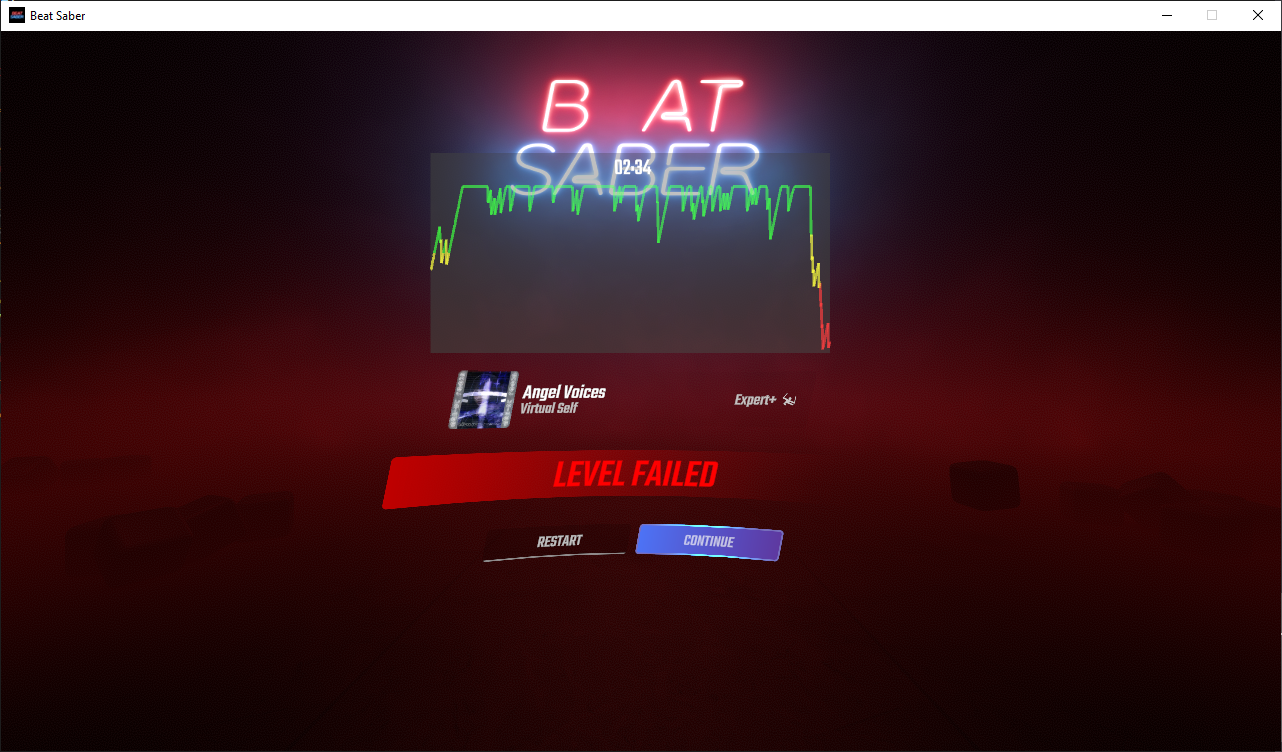
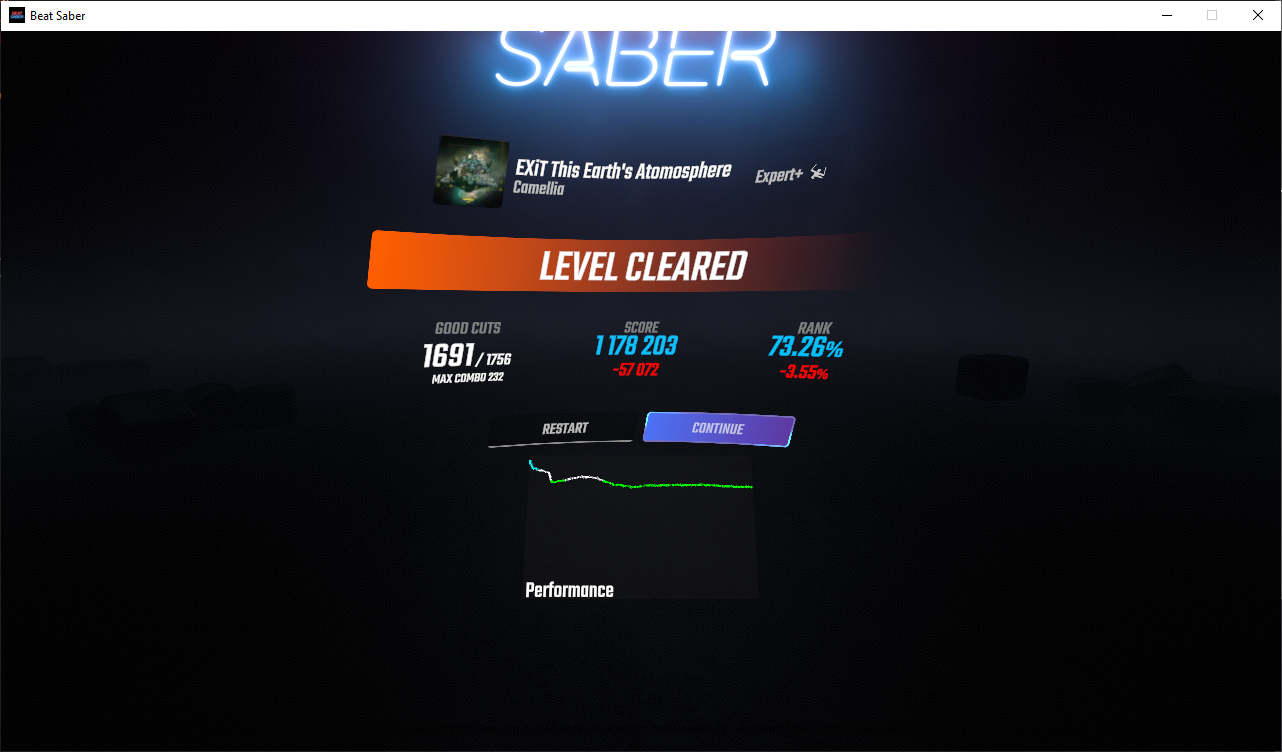
Added configuration, graph label; tweaks; readme

diff --git a/PerformanceMeterController.cs b/PerformanceMeterController.cs
@@ -8,16 +8,12 @@
  * Copyright (c) 2021 JackMacWindows.
  */
 
-using System;
 using System.Collections;
 using System.Collections.Generic;
 using System.Linq;
-using System.Reflection;
-using System.Text;
-using System.Threading.Tasks;
 using UnityEngine;
 using UnityEngine.UI;
-using BS_Utils.Utilities;
+using TMPro;
 
 namespace PerformanceMeter
 {
@@ -41,27 +37,48 @@ namespace PerformanceMeter
             if (!levelOk) return;
             levelOk = false;
             Logger.log.Debug("Found " + energyList.Count() + " notes");
+
             panel = new GameObject("PerformanceMeter");
+            panel.transform.Rotate(22.5f, 0, 0, Space.World);
             Canvas canvas = panel.AddComponent<Canvas>();
             canvas.renderMode = RenderMode.WorldSpace;
-            canvas.GetComponent<RectTransform>().localPosition = new Vector3(0.0f, 2.25f, 2.0f);
-            canvas.GetComponent<RectTransform>().sizeDelta = new Vector2(1.5f, 0.75f);
-            canvas.GetComponent<RectTransform>().rotation = Quaternion.AngleAxis(30, Vector3.left);
-            GameObject imageObj = new GameObject();
-            imageObj.transform.parent = canvas.transform;
-            imageObj.name = "Background";
+            canvas.scaleFactor = 0.01f;
+            canvas.GetComponent<RectTransform>().localPosition = new Vector3(0.0f, 0.4f, 2.25f);
+            canvas.GetComponent<RectTransform>().sizeDelta = new Vector2(1.0f, 0.5f);
+            canvas.transform.Rotate(22.5f, 0, 0, Space.World);
+            panel.AddComponent<CanvasRenderer>();
+            panel.AddComponent<HMUI.CurvedCanvasSettings>();
+
+            GameObject imageObj = new GameObject("Background");
+            imageObj.transform.SetParent(canvas.transform);
+            imageObj.transform.Rotate(22.5f, 0, 0, Space.World);
             Image img = imageObj.AddComponent<Image>();
-            img.color = new Color(0.25f, 0.25f, 0.25f, 0.5f);
+            img.color = new Color(0.1f, 0.1f, 0.1f, 0.25f);
             img.GetComponent<RectTransform>().localPosition = new Vector3(0.0f, 0.0f, 0.0f);
-            img.GetComponent<RectTransform>().sizeDelta = new Vector2(1.5f, 0.75f);
+            img.GetComponent<RectTransform>().sizeDelta = new Vector2(1.0f, 0.6f);
+
+            GameObject textObj = new GameObject("Label");
+            textObj.transform.SetParent(canvas.transform);
+            textObj.transform.Rotate(22.5f, 0, 0, Space.World);
+            HMUI.CurvedTextMeshPro text = textObj.AddComponent<HMUI.CurvedTextMeshPro>();
+            text.font = Instantiate(Resources.FindObjectsOfTypeAll<TMP_FontAsset>().First(t => t.name == "Teko-Medium SDF No Glow"));
+            text.fontSize = 9.0f;
+            text.alignment = TextAlignmentOptions.Right;
+            text.text = "Performance";
+            text.enableAutoSizing = true;
+            text.transform.localScale = new Vector3(0.005f, 0.005f, 0.005f);
+            text.GetComponent<RectTransform>().localPosition = new Vector3(-0.3f, -0.25f, 0.1f);
+            text.GetComponent<RectTransform>().sizeDelta = new Vector2(75.0f, 25.0f);
+
             GameObject graphObj = new GameObject("GraphContainer");
-            graphObj.AddComponent<RectTransform>().localPosition = new Vector3(0.0f, 2.25f, 2.0f);
-            graphObj.GetComponent<RectTransform>().sizeDelta = new Vector2(1.5f, 0.75f);
+            graphObj.AddComponent<RectTransform>().localPosition = new Vector3(0.0f, 0.45f, 2.275f);
+            graphObj.GetComponent<RectTransform>().sizeDelta = new Vector2(1.0f, 0.45f);
+            graphObj.transform.Rotate(22.5f, 0, 0, Space.World);
             graphObj.transform.SetParent(panel.transform);
-            graphObj.name = "GraphContainer";
             graphObj.transform.name = "GraphContainer";
             WindowGraph graph = panel.AddComponent<WindowGraph>();
             graph.ShowGraph(energyList, false, true, true);
+
             StartCoroutine(WaitForMenu());
         }
 
@@ -81,15 +98,14 @@ namespace PerformanceMeter
         }
 
         IEnumerator PauseAndRecord() {
-            yield return new WaitForSeconds(0.01f);
+            yield return new WaitForSeconds(0.001f); // Wait a tiny bit of time because the note cut event is sent just before the energy/percentage update
             float newEnergy = 0f;
             switch (PluginConfig.Instance.GetMode()) {
                 case PluginConfig.MeasurementMode.Energy: newEnergy = energyCounter.energy; break;
                 case PluginConfig.MeasurementMode.PercentModified: newEnergy = (float)scoreController.prevFrameModifiedScore / (float)scoreController.immediateMaxPossibleRawScore; break;
                 case PluginConfig.MeasurementMode.PercentRaw: newEnergy = rankCounter.relativeScore; break;
-                default: Logger.log.Error("An invalid mode was specified! PerformanceMeter will not record a score."); break;
+                default: Logger.log.Error("An invalid mode was specified! PerformanceMeter will not record scores, resulting in a blank graph. Check the readme for the valid modes."); yield break;
             }
-            Logger.log.Debug(newEnergy.ToString());
             energyList.Add(newEnergy);
         }
 
@@ -98,6 +114,10 @@ namespace PerformanceMeter
                 Destroy(panel);
                 panel = null;
                 resultsController = null;
+                scoreController = null;
+                energyCounter = null;
+                rankCounter = null;
+                endActions = null;
             }
         }
 
@@ -106,12 +126,20 @@ namespace PerformanceMeter
             energyCounter = Resources.FindObjectsOfTypeAll<GameEnergyCounter>().FirstOrDefault();
             rankCounter = Resources.FindObjectsOfTypeAll<RelativeScoreAndImmediateRankCounter>().FirstOrDefault();
             endActions = Resources.FindObjectsOfTypeAll<StandardLevelGameplayManager>().FirstOrDefault();
-            if (scoreController != null && energyCounter != null && endActions != null) {
+            if (endActions == null) endActions = Resources.FindObjectsOfTypeAll<MissionLevelGameplayManager>().FirstOrDefault();
+
+            if (scoreController != null && energyCounter != null && rankCounter != null && endActions != null) {
                 scoreController.noteWasCutEvent += NoteHit;
                 scoreController.noteWasMissedEvent += NoteMiss;
                 endActions.levelFinishedEvent += LevelFinished;
                 endActions.levelFailedEvent += LevelFinished;
                 Logger.log.Debug("PerformanceMeter reloaded successfully");
+            } else {
+                Logger.log.Error("Could not reload PerformanceMeter");
+                scoreController = null;
+                energyCounter = null;
+                rankCounter = null;
+                endActions = null;
             }
         }
 
@@ -124,7 +152,7 @@ namespace PerformanceMeter
         }
 
         private void LevelFinished() {
-            levelOk = true;
+            if (scoreController != null && energyCounter != null && rankCounter != null && endActions != null) levelOk = true;
         }
 
         /// <summary>
@@ -137,54 +165,14 @@ namespace PerformanceMeter
             if (instance != null)
             {
                 Logger.log?.Warn($"Instance of {this.GetType().Name} already exists, destroying.");
-                GameObject.DestroyImmediate(this);
+                DestroyImmediate(this);
                 return;
             }
-            GameObject.DontDestroyOnLoad(this); // Don't destroy this object on scene changes
+            DontDestroyOnLoad(this); // Don't destroy this object on scene changes
             instance = this;
             Logger.log?.Debug($"{name}: Awake()");
-            //StartCoroutine(WaitForLoad());
         }
-        /// <summary>
-        /// Only ever called once on the first frame the script is Enabled. Start is called after any other script's Awake() and before Update().
-        /// </summary>
-        private void Start()
-        {
-
-        }
-
-        /// <summary>
-        /// Called every frame if the script is enabled.
-        /// </summary>
-        private void Update()
-        {
-
-        }
-
-        /// <summary>
-        /// Called every frame after every other enabled script's Update().
-        /// </summary>
-        private void LateUpdate()
-        {
-
-        }
-
-        /// <summary>
-        /// Called when the script becomes enabled and active
-        /// </summary>
-        private void OnEnable()
-        {
-
-        }
-
-        /// <summary>
-        /// Called when the script becomes disabled or when it is being destroyed.
-        /// </summary>
-        private void OnDisable()
-        {
-
-        }
-
+      
         /// <summary>
         /// Called when the script is being destroyed.
         /// </summary>
@@ -192,7 +180,6 @@ namespace PerformanceMeter
         {
             Logger.log?.Debug($"{name}: OnDestroy()");
             instance = null; // This MonoBehaviour is being destroyed, so set the static instance property to null.
-
         }
         #endregion
     }

diff --git a/Plugin.cs b/Plugin.cs
@@ -8,12 +8,7 @@
  * Copyright (c) 2021 JackMacWindows.
  */
 
-using System;
-using System.Collections;
-using System.Collections.Generic;
-using System.Linq;
 using IPA;
-using IPA.Config;
 using IPA.Config.Stores;
 using UnityEngine.SceneManagement;
 using UnityEngine;
@@ -42,53 +37,34 @@ namespace PerformanceMeter
             Logger.log.Debug("Logger initialized.");
         }
 
-        #region BSIPA Config
-        //Uncomment to use BSIPA's config
-        /*
-        [Init]
-        public void InitWithConfig(Config conf)
-        {
-            Configuration.PluginConfig.Instance = conf.Generated<Configuration.PluginConfig>();
-            Logger.log.Debug("Config loaded");
-        }
-        */
-        #endregion
-
         [OnStart]
         public void OnApplicationStart() {
             Logger.log.Debug("OnApplicationStart");
-            if (PluginConfig.Instance.Enabled) {
-                new GameObject("PerformanceMeterController").AddComponent<PerformanceMeterController>();
-                BSEvents.gameSceneActive += GameSceneActive;
-                BSEvents.menuSceneActive += MenuSceneActive;
-                BSEvents.levelCleared += BSEvents_levelCleared;
-                BSEvents.levelFailed += BSEvents_levelCleared;
-                SceneManager.activeSceneChanged += ActiveSceneChanged;
-            }
-        }
-
-        private void BSEvents_levelCleared(StandardLevelScenesTransitionSetupDataSO arg1, LevelCompletionResults arg2) {
-            //PerformanceMeterController.instance.ShowResults();
+            new GameObject("PerformanceMeterController").AddComponent<PerformanceMeterController>();
+            BSEvents.gameSceneActive += GameSceneActive;
+            SceneManager.activeSceneChanged += ActiveSceneChanged;
         }
 
         [OnExit]
         public void OnApplicationQuit() {
             Logger.log.Debug("OnApplicationQuit");
-
         }
 
         void GameSceneActive() {
-            PerformanceMeterController.instance.energyList.Clear();
-            if (PluginConfig.Instance.GetMode() == PluginConfig.MeasurementMode.Energy) PerformanceMeterController.instance.energyList.Add(0.5f);
-            PerformanceMeterController.instance.GetControllers();
-        }
-
-        void MenuSceneActive() {
-            //PerformanceMeterController.instance.ShowResults();
+            if (PluginConfig.Instance.enabled) {
+                PerformanceMeterController.instance.energyList.Clear();
+                if (PluginConfig.Instance.GetMode() == PluginConfig.MeasurementMode.Energy) PerformanceMeterController.instance.energyList.Add(0.5f);
+                PerformanceMeterController.instance.GetControllers();
+            }
         }
 
         void ActiveSceneChanged(Scene oldScene, Scene newScene) {
-            if (newScene.name == "MenuViewControllers") PerformanceMeterController.instance.ShowResults();
+            if (PluginConfig.Instance.enabled && newScene.name == "MenuViewControllers") PerformanceMeterController.instance.ShowResults();
         }
+    }
+
+    internal static class Logger
+    {
+        internal static IPALogger log { get; set; }
     }
 }

diff --git a/WindowGraph.cs b/WindowGraph.cs
@@ -197,17 +197,17 @@ public class WindowGraph : MonoBehaviour
         gameObject.transform.SetParent(GraphContainer, false);
         var image = gameObject.GetComponent<Image>();
         if (PerformanceMeter.PluginConfig.Instance.GetMode() != PerformanceMeter.PluginConfig.MeasurementMode.Energy) {
-            if (dotPositionB.y / graphHeight < 0.9 && dotPositionB.y / graphHeight >= 0.8) image.color = Color.white.ColorWithAlpha(.5f);
-            else if (dotPositionB.y / graphHeight < 0.8 && dotPositionB.y / graphHeight >= 0.65) image.color = Color.green.ColorWithAlpha(.5f);
-            else if (dotPositionB.y / graphHeight < 0.65 && dotPositionB.y / graphHeight >= 0.5) image.color = Color.yellow.ColorWithAlpha(.5f);
-            else if (dotPositionB.y / graphHeight < 0.5 && dotPositionB.y / graphHeight >= 0.35) image.color = new Color(1.0f, 0.5f, 0.0f, .5f);
-            else if (dotPositionB.y / graphHeight < 0.35) image.color = Color.red.ColorWithAlpha(.5f);
-            else image.color = Color.cyan.ColorWithAlpha(.5f);
+            if (dotPositionB.y / graphHeight < 0.9 && dotPositionB.y / graphHeight >= 0.8) image.color = Color.white;//.ColorWithAlpha(.5f);
+            else if (dotPositionB.y / graphHeight < 0.8 && dotPositionB.y / graphHeight >= 0.65) image.color = Color.green;//.ColorWithAlpha(.5f);
+            else if (dotPositionB.y / graphHeight < 0.65 && dotPositionB.y / graphHeight >= 0.5) image.color = Color.yellow;//.ColorWithAlpha(.5f);
+            else if (dotPositionB.y / graphHeight < 0.5 && dotPositionB.y / graphHeight >= 0.35) image.color = new Color(1.0f, 0.5f, 0.0f, 1.0f);
+            else if (dotPositionB.y / graphHeight < 0.35) image.color = Color.red;//.ColorWithAlpha(.5f);
+            else image.color = Color.cyan;//.ColorWithAlpha(.5f);
         } else {
-            if (dotPositionB.y / graphHeight <= 1.0 && dotPositionB.y / graphHeight >= 0.5) image.color = Color.green.ColorWithAlpha(.5f);
-            else if (dotPositionB.y / graphHeight < 0.5 && dotPositionB.y / graphHeight >= 0.25) image.color = Color.yellow.ColorWithAlpha(.5f);
-            else if (dotPositionB.y / graphHeight < 0.25 && dotPositionB.y / graphHeight >= 0) image.color = Color.red.ColorWithAlpha(.5f);
-            else image.color = Color.white.ColorWithAlpha(.5f);
+            if (dotPositionB.y / graphHeight <= 1.0 && dotPositionB.y / graphHeight >= 0.5) image.color = Color.green;//.ColorWithAlpha(.5f);
+            else if (dotPositionB.y / graphHeight < 0.5 && dotPositionB.y / graphHeight >= 0.25) image.color = Color.yellow;//.ColorWithAlpha(.5f);
+            else if (dotPositionB.y / graphHeight < 0.25 && dotPositionB.y / graphHeight >= 0) image.color = Color.red;//.ColorWithAlpha(.5f);
+            else image.color = Color.white;//.ColorWithAlpha(.5f);
         }
         image.enabled = makeLinkVisible;
         var rectTransform = gameObject.GetComponent<RectTransform>();

diff --git a/PluginConfig.cs b/PluginConfig.cs
@@ -17,9 +17,9 @@ namespace PerformanceMeter
     public class PluginConfig
     {
         public static PluginConfig Instance { get; set; }
-        public virtual bool Enabled { get; set; } = true;
-        public virtual int Mode { get; set; } = (int)MeasurementMode.Energy; // Must be 'virtual' if you want BSIPA to detect a value change and save the config automatically.
-        internal MeasurementMode GetMode() { return (MeasurementMode)Mode; }
+        public virtual bool enabled { get; set; } = true;
+        public virtual int mode { get; set; } = (int)MeasurementMode.Energy; // Must be 'virtual' if you want BSIPA to detect a value change and save the config automatically.
+        internal MeasurementMode GetMode() { return (MeasurementMode)mode; }
 
         public enum MeasurementMode {
             Energy,

diff --git a/Properties/AssemblyInfo.cs b/Properties/AssemblyInfo.cs
@@ -10,7 +10,7 @@ using System.Runtime.InteropServices;
 [assembly: AssemblyConfiguration("")]
 [assembly: AssemblyCompany("")]
 [assembly: AssemblyProduct("PerformanceMeter")]
-[assembly: AssemblyCopyright("Copyright © 2020 JackMacWindows")]
+[assembly: AssemblyCopyright("Copyright © 2021 JackMacWindows")]
 [assembly: AssemblyTrademark("")]
 [assembly: AssemblyCulture("")]
 
@@ -32,5 +32,5 @@ using System.Runtime.InteropServices;
 // You can specify all the values or you can default the Build and Revision Numbers 
 // by using the '*' as shown below:
 // [assembly: AssemblyVersion("1.0.*")]
-[assembly: AssemblyVersion("0.0.1")]
-[assembly: AssemblyFileVersion("0.0.1")]
+[assembly: AssemblyVersion("0.1.0")]
+[assembly: AssemblyFileVersion("0.1.0")]

diff --git a/README.md b/README.md
@@ -1,4 +1,41 @@
 # PerformanceMeter
-A Beat Saber mod to show a graph of your energy bar level throughout a level on the end screen.
+A Beat Saber mod to show a graph of your energy bar or percentage level throughout a map on the end screen.
 
 ![Image](screenshot.png)
+
+## Requirements
+* Beat Saber 1.13.0 or compatible
+* BSIPA 4.1.3 or later
+* Beat Saber Utils 1.6.5 or later
+
+## Installation
+Simply drop the latest PerformanceMeter.dll plugin file into your Plugins folder, inside the main Beat Saber installation directory.
+
+## Usage
+Out of the box, PerformanceMeter displays a graph of the energy bar's status from the beginning of the level to the end, whether that's the end of the level or whenever you failed. This is shown on the level complete screen underneath the buttons. Energy above 50% is displayed in green, energy between 50% and 25% is displayed in yellow, and energy below 25% is displayed in red.
+
+You can also configure PerformanceMeter to measure percentage instead of energy level. This will display different colors per rank, using the same color set as Counters+. You can tell it either to use the raw percentage, or the percentage after applying modifiers.
+
+## Configuration
+### UI
+UI configuration is coming soon.
+
+### JSON
+PerformanceMeter's configuration file is stored at `UserData\PerformanceMeter.json`. Here you can change some options regarding how PerformanceMeter looks and acts.
+
+#### `enabled`
+This toggles PerformanceMeter on and off. When set to `false`, recording is disabled and the graph will not be shown.
+
+#### `mode`
+This changes what data PerformanceMeter records in-game. As of 0.1.0, these modes are available:
+
+| ID | Statistic             |
+|----|-----------------------|
+| 0  | Energy bar            |
+| 1  | Percentage (modified) |
+| 2  | Percentage (raw)      |
+
+More modes may be added in the future.
+
+## License
+PerformanceMeter is licensed under the MIT license.
